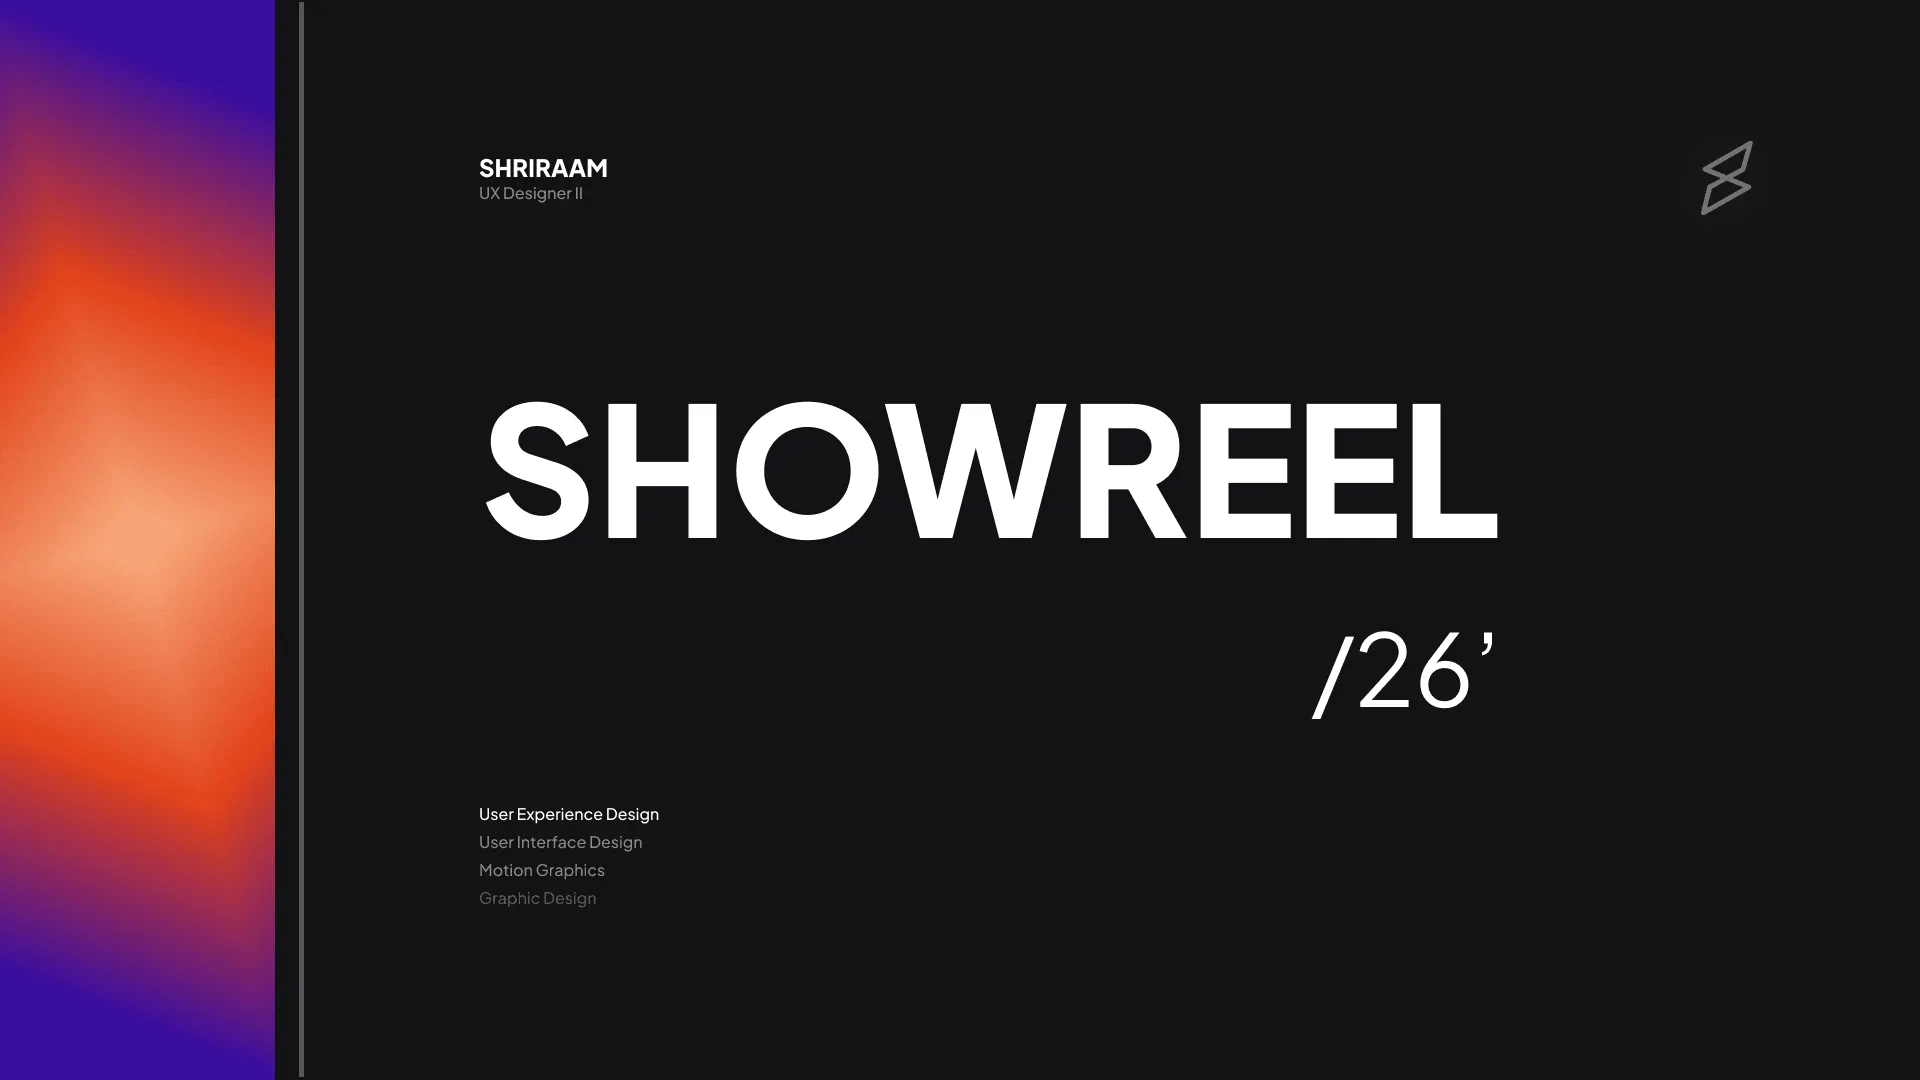
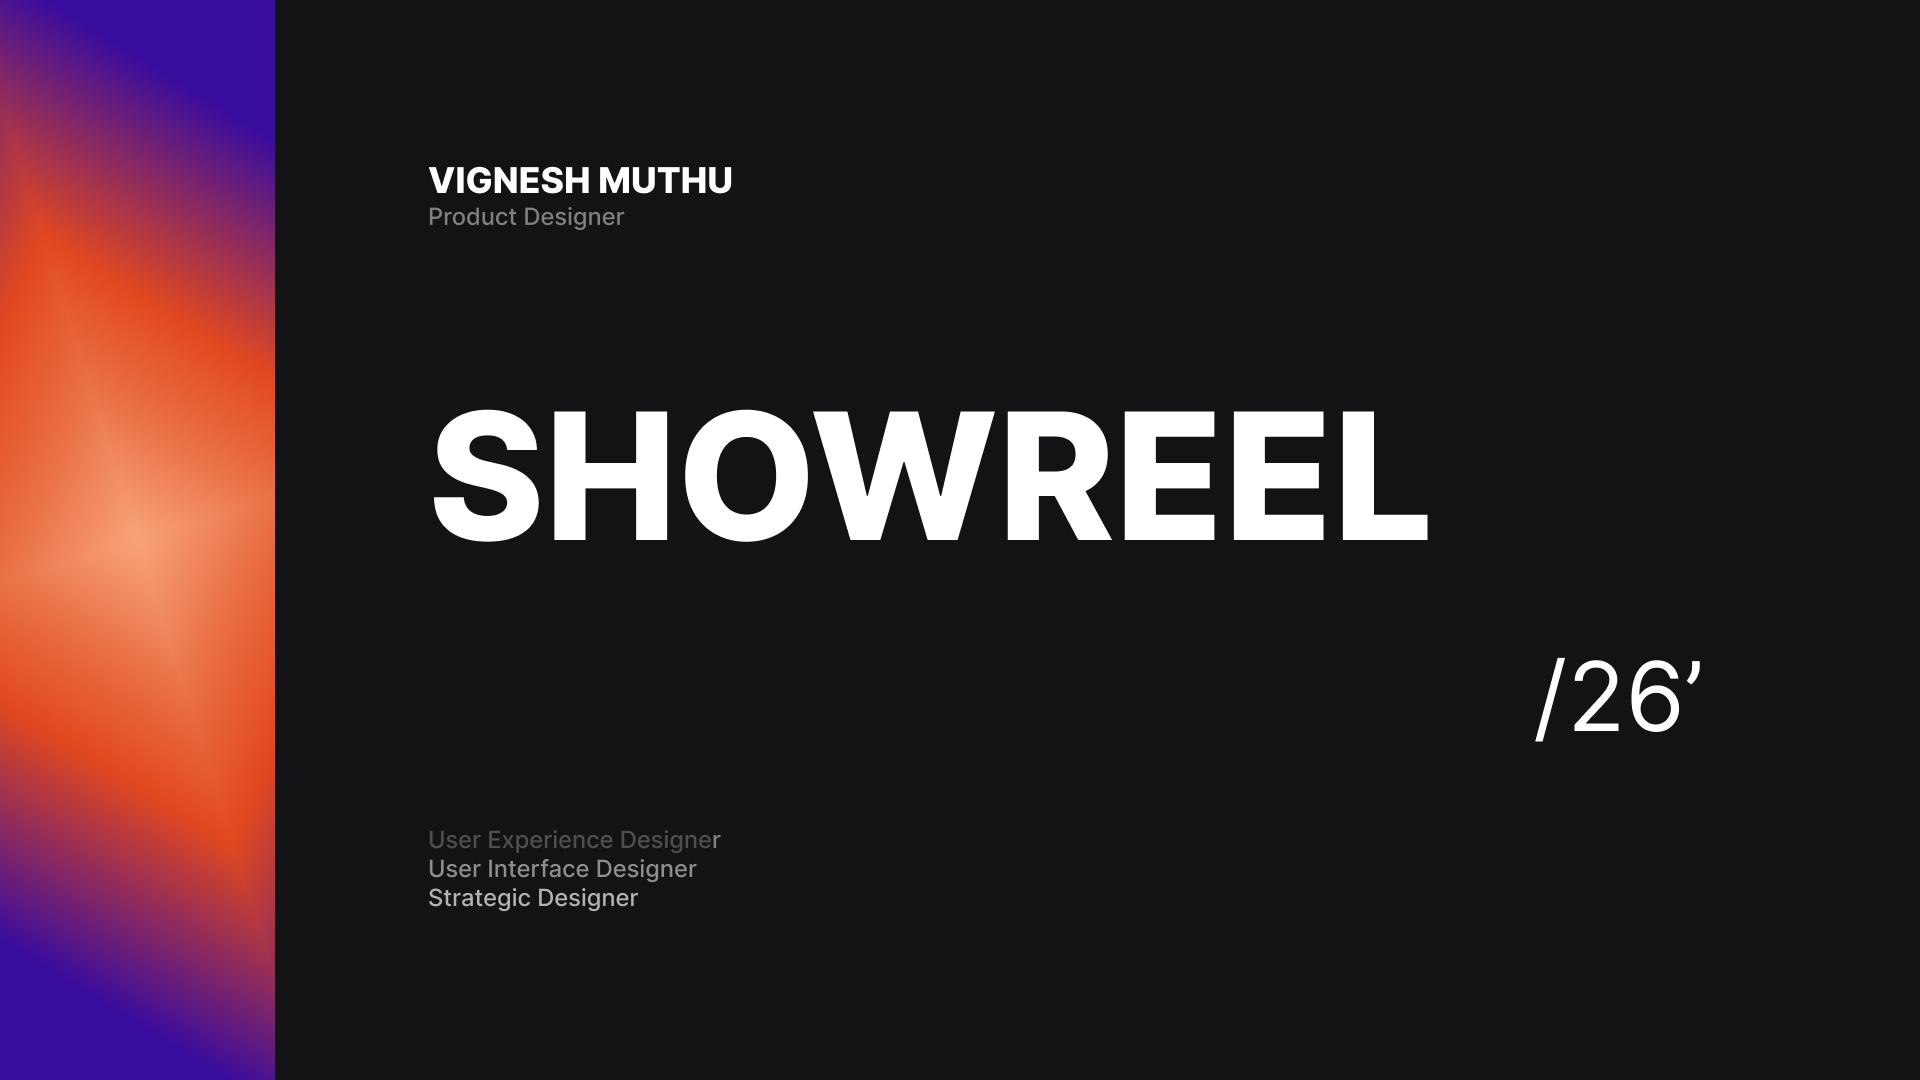
feat(optimize): convert JPG and PNG assets to high-compression WebP and update components

diff --git a/src/sections/about/Frame1739329352.tsx b/src/sections/about/Frame1739329352.tsx
@@ -86,28 +86,28 @@ export default function Frame1739329352() {
           <div className="ssr-variant hidden-cmstll">
             <div className="vignesh-sd407j">
               <div style={{ position: "absolute", borderRadius: "inherit", cornerShape: "inherit", top: "0", right: "0", bottom: "0", left: "0" }} data-vignesh-background-image-wrapper="true">
-                <img loading="eager" width="960" height="1280" src="/assets/img/vignesh 4.png?v=3" alt="Shriraam Hemachander in casual" style={{ display: "block", width: "100%", height: "100%", borderRadius: "inherit", cornerShape: "inherit", objectPosition: "center", objectFit: "cover" }} />
+                <img loading="eager" width="960" height="1280" src="/assets/img/vignesh 4.webp?v=4" alt="Shriraam Hemachander in casual" style={{ display: "block", width: "100%", height: "100%", borderRadius: "inherit", cornerShape: "inherit", objectPosition: "center", objectFit: "cover" }} />
               </div>
             </div>
           </div>
           <div className="ssr-variant hidden-tkd66p">
             <div className="vignesh-sd407j">
               <div style={{ position: "absolute", borderRadius: "inherit", cornerShape: "inherit", top: "0", right: "0", bottom: "0", left: "0" }} data-vignesh-background-image-wrapper="true">
-                <img decoding="async" loading="lazy" width="960" height="1280" src="/assets/img/vignesh 4.png?v=3" alt="" style={{ display: "block", width: "100%", height: "100%", borderRadius: "inherit", cornerShape: "inherit", objectPosition: "center", objectFit: "cover" }} />
+                <img decoding="async" loading="lazy" width="960" height="1280" src="/assets/img/vignesh 4.webp?v=4" alt="" style={{ display: "block", width: "100%", height: "100%", borderRadius: "inherit", cornerShape: "inherit", objectPosition: "center", objectFit: "cover" }} />
               </div>
             </div>
           </div>
           <div className="ssr-variant hidden-cmstll">
             <div className="vignesh-1g35wqs">
               <div style={{ position: "absolute", borderRadius: "inherit", cornerShape: "inherit", top: "0", right: "0", bottom: "0", left: "0" }} data-vignesh-background-image-wrapper="true">
-                <img decoding="async" loading="lazy" width="907" height="1221" src="/assets/img/Vignesh 5.jpg?v=3" alt="Shriraam Hemachander playing VR Game" style={{ display: "block", width: "100%", height: "100%", borderRadius: "inherit", cornerShape: "inherit", objectPosition: "center", objectFit: "cover" }} />
+                <img decoding="async" loading="lazy" width="907" height="1221" src="/assets/img/Vignesh 5.webp?v=4" alt="Shriraam Hemachander playing VR Game" style={{ display: "block", width: "100%", height: "100%", borderRadius: "inherit", cornerShape: "inherit", objectPosition: "center", objectFit: "cover" }} />
               </div>
             </div>
           </div>
           <div className="ssr-variant hidden-tkd66p">
             <div className="vignesh-1g35wqs">
               <div style={{ position: "absolute", borderRadius: "inherit", cornerShape: "inherit", top: "0", right: "0", bottom: "0", left: "0" }} data-vignesh-background-image-wrapper="true">
-                <img decoding="async" loading="lazy" width="907" height="1221" src="/assets/img/Vignesh 5.jpg?v=3" alt="" style={{ display: "block", width: "100%", height: "100%", borderRadius: "inherit", cornerShape: "inherit", objectPosition: "center", objectFit: "cover" }} />
+                <img decoding="async" loading="lazy" width="907" height="1221" src="/assets/img/Vignesh 5.webp?v=4" alt="" style={{ display: "block", width: "100%", height: "100%", borderRadius: "inherit", cornerShape: "inherit", objectPosition: "center", objectFit: "cover" }} />
               </div>
             </div>
           </div>

diff --git a/src/sections/about/Frame1739329351.tsx b/src/sections/about/Frame1739329351.tsx
@@ -266,7 +266,7 @@ export default function Frame1739329351() {
           <div className="vignesh-juoxp7" data-vignesh-appear-id="juoxp7" data-vignesh-name="Image Container" style={{ opacity: "0.001", transform: "translateY(20px)" }}>
             <div className="vignesh-1fcsdga">
               <div style={{ position: "absolute", borderRadius: "inherit", cornerShape: "inherit", top: "0", right: "0", bottom: "0", left: "0" }} data-vignesh-background-image-wrapper="true">
-                <img width="3024" height="2647" src="/assets/img/Vignesh 6.jpg?v=3" alt="Shriraam hemachander" style={{ display: "block", width: "100%", height: "100%", borderRadius: "inherit", cornerShape: "inherit", objectPosition: "center", objectFit: "cover" }} loading="eager" fetchPriority="high" />
+                <img width="3024" height="2647" src="/assets/img/Vignesh 6.webp?v=4" alt="Shriraam hemachander" style={{ display: "block", width: "100%", height: "100%", borderRadius: "inherit", cornerShape: "inherit", objectPosition: "center", objectFit: "cover" }} loading="eager" fetchPriority="high" />
               </div>
             </div>
           </div>
